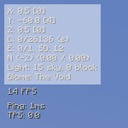
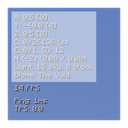
Limit Minecraft to 26.2.x on NeoForge and pin the conventions at 2.4.16
NeoForge now uses the conventions' ${minecraft_version_range}, matching Fabric's ~${minecraft_version}; loaders and libraries stay open-ended.

The icon is now square at a power of two (512 or 1024 px); docs/icon/README.md records how it was rescaled.

diff --git a/docs/icon/provenance/native_scale.py b/docs/icon/provenance/native_scale.py
@@ -1,0 +1,68 @@
+#!/usr/bin/env python3
+"""Turn the native capture crop into the shipped square icon (Pillow 12.3.0).
+
+The crop is Minecraft GUI pixel art: every GUI pixel is a BLOCK x BLOCK square of one
+colour. This script recovers the native GUI-pixel image by taking each block's majority
+colour (ties, which only occur on the faint sky-gradient seams, go to the candidate
+colour that is most common in the surrounding 3x3 blocks, then to the smallest RGB
+value), enlarges it FACTOR times with NEAREST, centres it on a transparent CANVAS x CANVAS
+square and writes ../icon.png. The mod's shipped copies are that icon resized to 128x128
+with LANCZOS.
+
+Run from docs/icon/provenance: python3 native_scale.py
+"""
+from collections import Counter
+from pathlib import Path
+
+from PIL import Image
+
+HERE = Path(__file__).resolve().parent
+REPO = HERE.parents[2]
+SOURCE = HERE / "capture-crop.png"  # the delivered 600x600 capture crop; its source frame is lost
+BOX = None
+BLOCK, FACTOR, CANVAS = 4, 6, 1024  # GUI scale 4 -> 150x150 native, x6 = 900 on 1024
+SHIPPED = (
+    "common/src/main/resources/assets/brainagehud/icon.png",
+    "fabric/src/gametest/resources/assets/brainagehud/icon.png",
+)
+
+
+def native(crop):
+    w, h = crop.size
+    assert w % BLOCK == 0 and h % BLOCK == 0, (w, h, BLOCK)
+    px = crop.load()
+    nw, nh = w // BLOCK, h // BLOCK
+    counts = [
+        [Counter(px[bx * BLOCK + i, by * BLOCK + j] for i in range(BLOCK) for j in range(BLOCK)) for bx in range(nw)]
+        for by in range(nh)
+    ]
+    out = Image.new("RGB", (nw, nh))
+    op = out.load()
+    ties = 0
+    for by in range(nh):
+        for bx in range(nw):
+            c = counts[by][bx]
+            top = max(c.values())
+            cands = [col for col, n in c.items() if n == top]
+            if len(cands) > 1:
+                ties += 1
+                around = Counter()
+                for y in range(max(0, by - 1), min(nh, by + 2)):
+                    for x in range(max(0, bx - 1), min(nw, bx + 2)):
+                        around.update(counts[y][x])
+                cands.sort(key=lambda col: (-around[col], col))
+            op[bx, by] = cands[0]
+    return out, ties
+
+
+crop = Image.open(SOURCE).convert("RGB")
+if BOX is not None:
+    crop = crop.crop(BOX)
+small, ties = native(crop)
+big = small.resize((small.width * FACTOR, small.height * FACTOR), Image.Resampling.NEAREST)
+icon = Image.new("RGBA", (CANVAS, CANVAS))
+icon.paste(big, ((CANVAS - big.width) // 2, (CANVAS - big.height) // 2))
+icon.save(HERE.parent / "icon.png")
+for rel in SHIPPED:
+    icon.resize((128, 128), Image.Resampling.LANCZOS).save(REPO / rel)
+print(f"native {small.size}, {ties} tied blocks, x{FACTOR} -> {big.size} centred on {CANVAS}x{CANVAS}")

diff --git a/docs/icon/README.md b/docs/icon/README.md
@@ -2,11 +2,15 @@
 
 ## What this is
 
-The mod's icon: `icon.png` — 600x600 RGB PNG, 11 318 bytes,
[1 lines of base64/hex data omitted]
+The mod's icon: `icon.png` — 1024x1024 RGBA PNG, 13 053 bytes,
[1 lines of base64/hex data omitted]
 
-It is a real in-game screenshot, cropped to a square. No compositing, no resizing,
-no interpolation, no shader pack and no resource pack were used.
+It is a real in-game screenshot: the 600x600 capture crop `provenance/capture-crop.png`
+(GUI scale 4), reduced to its native 150x150 GUI pixels, enlarged 6x with NEAREST to 900x900
+and centred on a transparent 1024x1024 canvas (62 px margin). No interpolation, no
+compositing, no shader pack and no resource pack. The mod ships 128x128 LANCZOS reductions of
+`icon.png` at `common/src/main/resources/assets/brainagehud/icon.png` and
+`fabric/src/gametest/resources/assets/brainagehud/icon.png`.
 
 ## How it was made
 
@@ -34,20 +38,35 @@ and highlights the BrainageHUD **Position** HUD element (TOP_LEFT, x=5 y=5) — 
 translucent white selection overlay is drawn over the element rectangle and the other HUD
 elements stay visible.
 
-The delivered image is the exact integer crop `(0, 0, 600, 600)` of that F2 frame. The
-selection rectangle measured in the frame is `(20, 20)-(471, 395)`, so the crop keeps it
-whole with margins left 20, top 20, right 129, bottom 205 px.
+The capture crop `provenance/capture-crop.png` (600x600 RGB, 11 318 bytes, sha256
[1 lines of base64/hex data omitted]
+shipped as `icon.png` itself, moved here unchanged) is the exact integer crop
+`(0, 0, 600, 600)` of that F2 frame. The selection rectangle measured in the frame is
+`(20, 20)-(471, 395)`, so the crop keeps it whole with margins left 20, top 20, right 129,
+bottom 205 px.
+
+**Native-scale enlargement (2026-10-02).** The icon rule is square, a power of two, 512 or
+1024 px; the owner asked for BrainageHUD to be scaled up to 1024. The crop is pixel art: 27
+colours on GUI scale 4's 4x4 grid (aligned with the crop). 21 196 of its 22 500 blocks are a
+single colour; the other 1 304 lie on faint diagonal seams of the sky gradient, where the
+colours differ by at most 1 level per channel. `native_scale.py` takes each block's majority
+colour (72 blocks have no strict majority and go to the colour that dominates the surrounding
+3x3 blocks) to recover the native 150x150 image, enlarges it by the largest integer factor that
+fits 1024 (6x, 900x900) with NEAREST, and centres it on a transparent 1024x1024 canvas. A
+LANCZOS resize was rejected because it blurs every GUI pixel edge.
 
 ## Provenance files
 
 | Path | What it is |
 |---|---|
 | `manifest.json` | The round-3 delivery record for this icon: label, method, source, measured geometry, notes |
+| `capture-crop.png` | **The 600x600 capture crop** (formerly `icon.png`, byte-identical) — the only surviving copy of this crop |
+| `native_scale.py` | **The script that writes `icon.png`** from `capture-crop.png` (native 150x150 recovery, 6x NEAREST, centred on 1024x1024) and the two shipped 128x128 copies |
 | `evidence/crop-report.json` | The measured highlight rectangle and the crop box used by `scripts/make_crops.py` |
 | `evidence/scene.json` | Full scene provenance: display, audio sink, client, mod list, options, world generation, every verified scene command, the BrainageHUD shot description |
-| `evidence/SHA256SUMS.txt` | Checksums of the seven captures-ui deliverables, including this icon |
+| `evidence/SHA256SUMS.txt` | Checksums of the seven captures-ui deliverables, including this capture crop |
 | `evidence/client-log-chat-captures.log` | The client log of the capture session (scene commands, world name, saved screenshots) |
-| `scripts/make_crops.py` | **The script that produced `icon.png`** (function `brainagehud_crop()`) |
+| `scripts/make_crops.py` | **The script that produced the capture crop** (function `brainagehud_crop()`) |
 | `scripts/drive_ui.py` | The verified X11 driver used for every key press, command and screenshot |
 | `scripts/capture_final.py` | The capture pass driver (scene verification, F2 capture, font-metric read-back) |
 | `scripts/collect_autocomplete.py` | Input-line ink measurement helper |
@@ -82,6 +101,13 @@ python3 scripts/drive_ui.py shot hud-editor-selected                # F2 -> rend
 python3 scripts/make_crops.py                                      # writes renders/brainagehud-position-selected-600.png
 ```
 
+`renders/brainagehud-position-selected-600.png` is `capture-crop.png`. Then write `icon.png` and
+the shipped copies (Pillow 12.3.0, from `docs/icon/provenance`):
+
+```sh
+python3 native_scale.py    # prints: native (150, 150), 72 tied blocks, x6 -> (900, 900) centred on 1024x1024
+```
+
 Prerequisites not shipped here: the Minecraft 26.2 client assets and Fabric Loader, the
 mod jars named in `client-ui.args`, and the world save (the void world is rebuilt by
 `tools/setup.py` from a game-written save; see Notes).
@@ -91,8 +117,9 @@ mod jars named in `client-ui.args`, and the world save (the void world is rebuil
 * **The source frame is not preserved.** `scripts/make_crops.py` crops
   `renders/frames/hud-editor-selected.png`, and that directory is empty in the round-3
   tree — the full-resolution F2 frames of the captures-ui session were deleted before the
-  later capture pass. The delivered `icon.png` is intact and is the only surviving copy of
-  that crop; re-running the recipe above is the way to obtain the frame again.
+  later capture pass. The capture crop (`capture-crop.png`, shipped as the icon until
+  2026-10-02) is intact and is the only surviving copy of that crop; re-running the recipe
+  above is the way to obtain the frame again.
 * **This is a recapture, not a crop of an earlier closeup.** The previously approved
   closeup was 590x480, so a 600x600 crop of it was geometrically impossible without
   inventing pixels. The same scene was therefore recaptured: same editor, same element,
